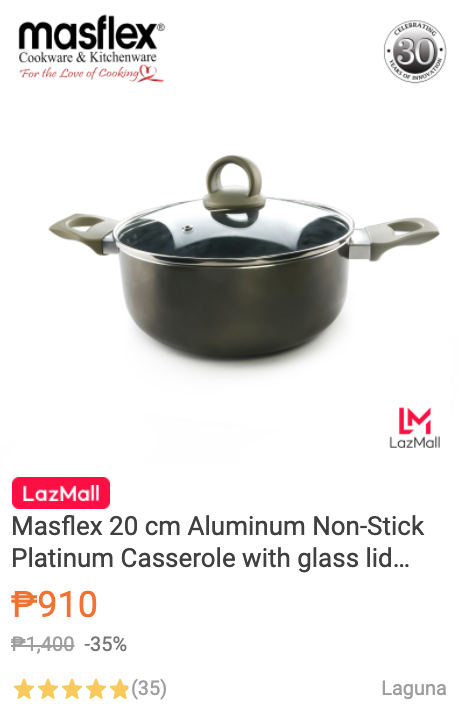
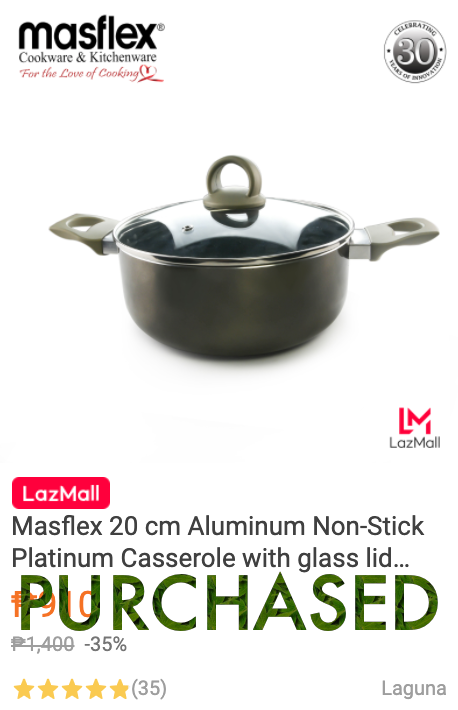
juvy al erwin

Changed region(s): [[0.0306, 0.8056, 0.9782, 0.8986]]

diff --git a/messages.html b/messages.html
@@ -138,7 +138,26 @@
               Char
             </span>
           </blockquote>
+          <blockquote class="otro-blockquote otro-blockquote--messages otro-blockquote--bride">
+            Hi Darwin & Jelai, <br />
+          I'm happy for both of you. Congratulations and Best wishes! 🙂
+
+          May both of you continue to strengthen faith and love as you move forward to your new chapter of your lives. 
+
+Godbless.
+
+
+            <span class="otro-blockquote__name">
+              Erwin
+            </span>
+          </blockquote>
         </div>
+
+
+
+
+
+
         <div class="col s12 m6">
 
           <blockquote class="otro-blockquote otro-blockquote--messages otro-blockquote--groom">
@@ -176,6 +195,13 @@
             Congratulations Mr. and Mrs. Gutierrez. Cheers! :)
             <span class="otro-blockquote__name">
               Johzee
+            </span>
+          </blockquote>
+          <blockquote class="otro-blockquote otro-blockquote--messages otro-blockquote--groom">
+            Hi Dar and Jelai,<br />
+            Congratulations! Wishing you a lifetime of love and happiness. God bless you both. 
+            <span class="otro-blockquote__name">
+              Juvy
             </span>
           </blockquote>
         </div>

diff --git a/gift-registry.html b/gift-registry.html
@@ -124,6 +124,7 @@
           </a>
         </div>
         <div class="col s12 m3 gift">
+          <div class="gift--purchased"></div>
           <a href="https://www.lazada.com.ph/products/masflex-20-cm-aluminum-non-stick-platinum-casserole-with-glass-lid-l356-cm-x-w20-cm-x-h16-cm-induction-ready-suitable-for-all-stovetops-healthy-quality-cookware-i262068144-s362248926.html?spm=a2o4l.seller.list.26.7e6d2eb9yPava5&mp=1"
             target="_blank">
             <img src="/img/gift/ws-b20-masflex.png" width="460" height="700" alt="" class="gift__img responsive-img">

diff --git a/css/main.css b/css/main.css
@@ -405,6 +405,7 @@ padding:10px 0;
 .gift {
   padding-left:2px;
   padding-right: 2px;
+  position: relative;
 }
 
 .gift:hover {
